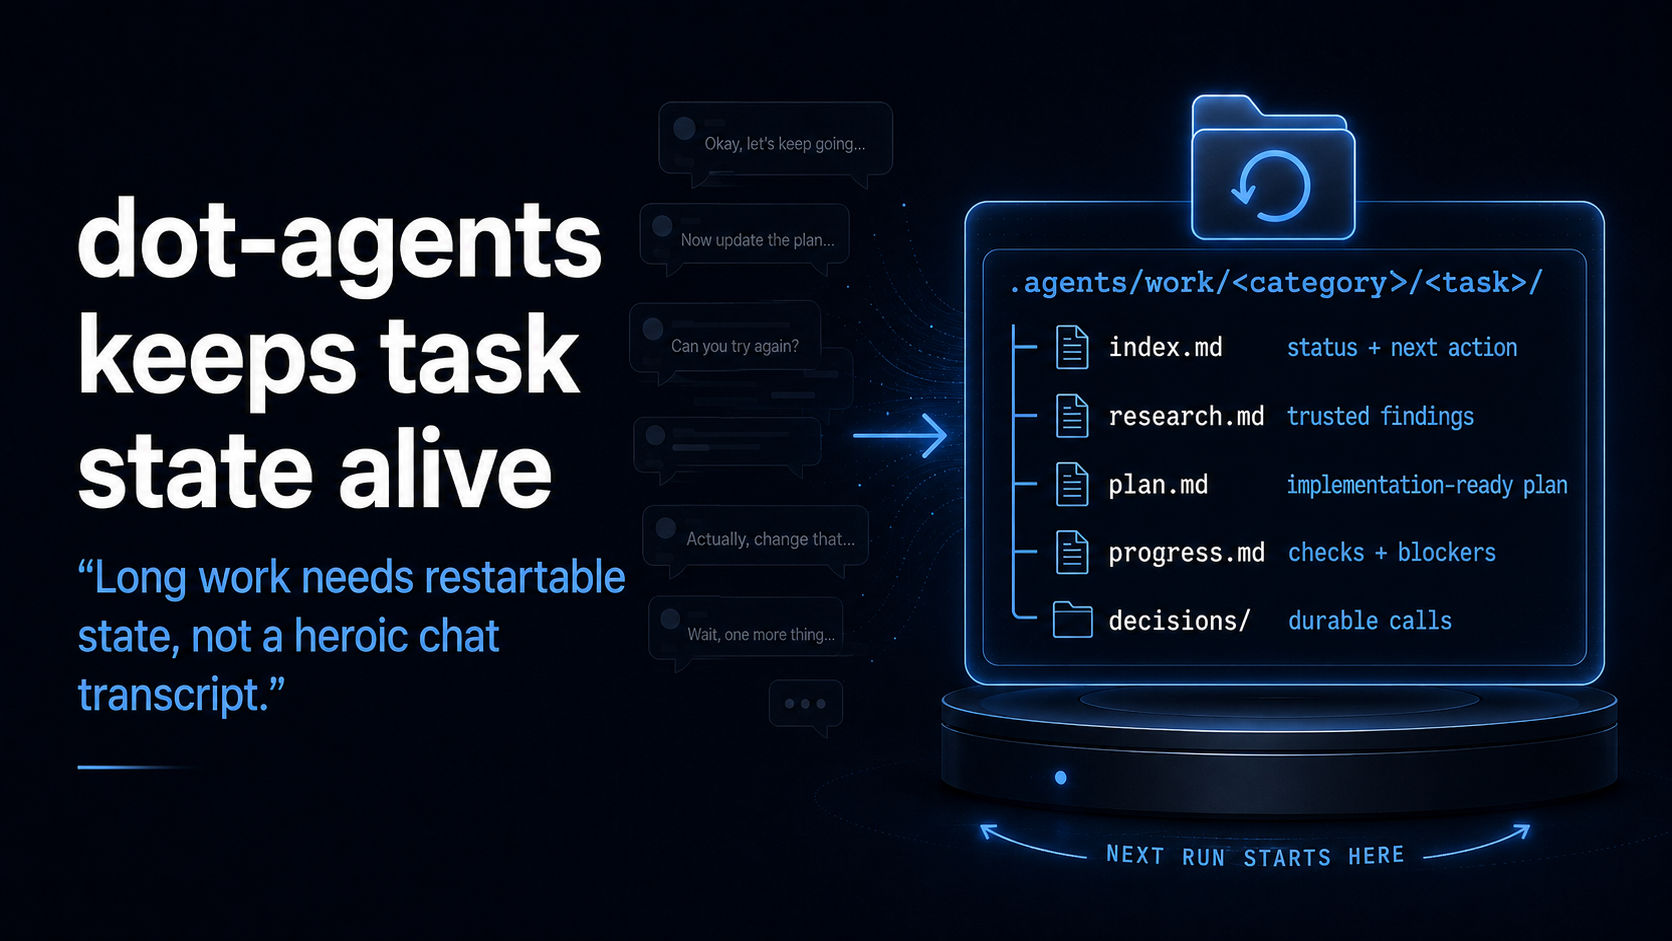
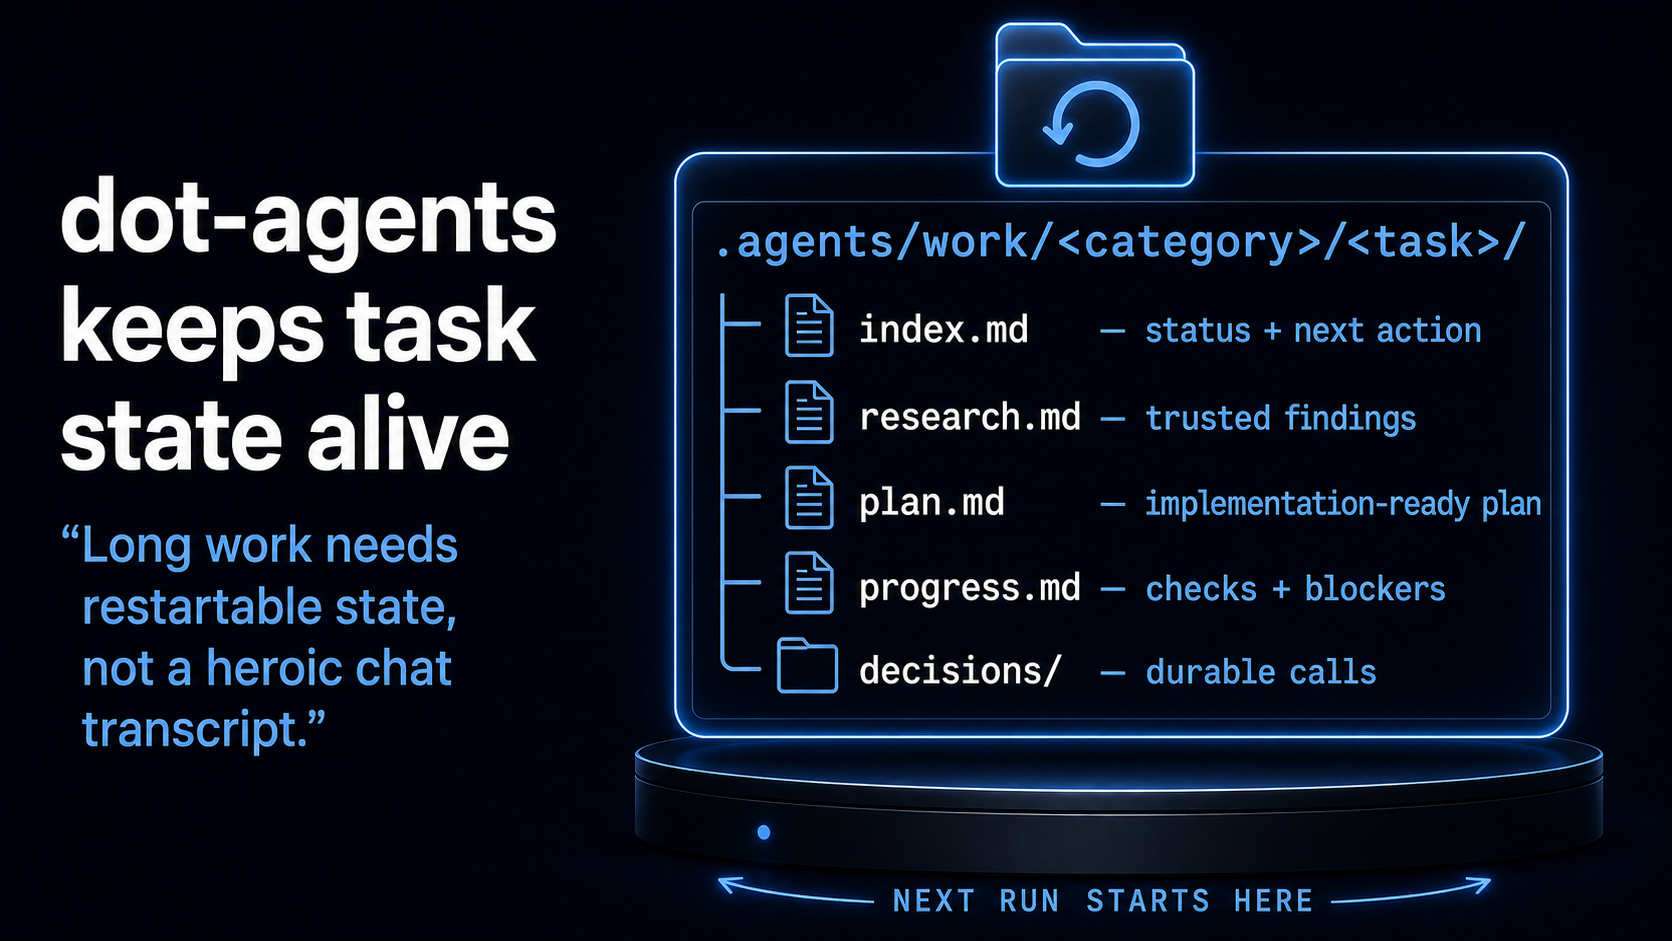
Improve durable context image deck
Amp-Thread-ID: https://ampcode.com/threads/T-019fd388-fd33-70bd-855a-7070fdd80cb4

Changed region(s): [[0.0311, 0.0, 0.9641, 0.9862], [0.4354, 0.8629, 0.4665, 0.8937]]

diff --git a/src/content/posts/durable-context-coding-agents-image-deck.md b/src/content/posts/durable-context-coding-agents-image-deck.md
@@ -1,6 +1,6 @@
 ---
 title: 'Your Repo Is the Memory: Durable Context for AI Coding Agents (Image Deck)'
-description: 'An image-only alternate deck for comparing generated presentation slides against the Markdown-native durable-context deck.'
+description: 'A visual presentation about keeping coding-agent intent, decisions, task state, and proof in the repository.'
 pubDate: 2026-07-02
 tags: ['AI Agents', 'Workflows', 'Agent Skills', 'dot-agents']
 draft: false
@@ -10,8 +10,8 @@ order: 4
 
 <!--
 Maintenance note for agents:
-durable-context-coding-agents-image-deck.md is an image-only experiment for the durable-context talk.
-It is not part of the canonical/extended-deck sync contract.
+durable-context-coding-agents-image-deck.md is the linked visual alternate for the canonical public article in durable-context-coding-agents.md.
+When the canonical argument changes, review this deck in the same diff and keep its claims, broad order, practical ending, notes, and source roles synchronized; its slide count and imagery may intentionally diverge.
 
 Slide images live in public/slides/durable-context-coding-agents-image-deck/.
 Do not publish, rename, delete, or replace the canonical public post without explicit human approval.
@@ -27,7 +27,9 @@ class: image-only
 
 <!-- notes -->
 
-Opening slide for the generated image-only deck.
+Coding agents can now produce substantial code faster than many teams can align around it. This talk asks where intent, constraints, decisions, and proof should live when chat is temporary and the repository is the system of record.
+
+The practical goal is to decide what to keep in the repo, what to leave in chat, and how to make the next run start smarter than the last one.
 
 ## Coding agents made implementation cheap
 <!-- slide:
@@ -39,23 +41,9 @@ class: image-only
 
 <!-- notes -->
 
-Use the new generated slide sequence in file order.
+The useful surprise is speed. A coding agent can inspect files, draft a plan, edit code, run commands, and summarize the result in minutes. The dangerous surprise is that alignment does not speed up automatically.
 
-## Start with the checkpoint you already trust
-<!-- slide:
-layout: image
-class: image-only
--->
-
-![Generated slide showing a timeline from intent to incident and asking how far the agent runs, what context survives, and where a human can redirect the work.](/slides/durable-context-coding-agents-image-deck/Slide-3.png)
-
-## Fast form without shared intent
-<!-- slide:
-layout: image
-class: image-only
--->
-
-![Generated slide saying generative AI makes form cheap, with documents and code artifacts spreading without shared intent.](/slides/durable-context-coding-agents-image-deck/Slide-4.png)
+Noperator's [You can just say it](https://noperator.dev/posts/you-can-just-say-it/) describes the failure mode as "substantial form without discernible intent": a capable generator can produce convincing code, tests, docs, and PRs from a vague instruction, leaving reviewers to reconstruct the goal.
 
 ## The PR inherits too many jobs
 <!-- slide:
@@ -65,6 +53,12 @@ class: image-only
 
 ![Generated slide comparing the old plan-discuss-build-review path with the agent path where alignment moves onto the critical path.](/slides/durable-context-coding-agents-image-deck/Slide-5.png)
 
+<!-- notes -->
+
+Maggie Appleton's [One Developer, Two Dozen Agents, Zero Alignment](https://maggieappleton.com/zero-alignment) describes the coordination shift: when implementation becomes cheap, "should we build it?" becomes harder than "how?"
+
+If the pull request is the first shared checkpoint, it must recover the goal, plan, assumptions, proof, and coordination that disappeared when implementation collapsed to minutes. Durable context moves those decisions earlier, while the work is still cheap to redirect.
+
 ## Speed becomes comprehension debt
 <!-- slide:
 layout: image
@@ -72,6 +66,26 @@ class: image-only
 -->
 
 ![Generated slide showing fast generation, large diffs, shallow review, and green tests turning speed into comprehension debt.](/slides/durable-context-coding-agents-image-deck/Slide-6.png)
+
+<!-- notes -->
+
+Addy Osmani calls the ownership posture [cognitive surrender](https://www.linkedin.com/posts/addyosmani_ai-programming-softwareengineering-activity-7457678048948064256-1pJl) and the accumulated gap [comprehension debt](https://addyosmani.com/blog/comprehension-debt/). Tests can be green while nobody can explain the implicit decisions or safely change the result.
+
+The team still owns generated code. Durable context keeps the goal, accepted tradeoffs, proof target, uncertainties, and human decisions attached to that code.
+
+## Start with the checkpoint you already trust
+<!-- slide:
+layout: image
+class: image-only
+-->
+
+![Generated slide showing an intent-to-incident timeline and three questions: how far the agent runs, what context survives, and where a human can redirect the work.](/slides/durable-context-coding-agents-image-deck/Slide-3.png)
+
+<!-- notes -->
+
+Before prescribing a workflow, locate the operating boundary. Autocomplete has a different risk profile from several terminal agents working against the same repo.
+
+Ask three questions: how far can the agent run without review, which shared context survives outside chat, and where can a human still change direction before rework becomes expensive? Durable context carries shared intent to a checkpoint where it can still change the work.
 
 ## The model is not your project memory
 <!-- slide:
@@ -81,13 +95,11 @@ class: image-only
 
 ![Generated slide contrasting broad lossy model memory with exact local repo truth.](/slides/durable-context-coding-agents-image-deck/Slide-7.png)
 
-## The repo is disk; chat is RAM
-<!-- slide:
-layout: image
-class: image-only
--->
+<!-- notes -->
 
-![Generated slide showing messy chat distilled into durable repo-local context that preserves the parts that change future behavior.](/slides/durable-context-coding-agents-image-deck/Slide-8.png)
+Simon Willison describes LLMs as [a lossy encyclopedia](https://simonwillison.net/2025/Aug/29/lossy-encyclopedia/): they carry broad public patterns, but the compression loses details. The model cannot infer this repo's fast test command, migration rule, security constraint, product decision, or preferred module boundary.
+
+For exact technical work, a correct repo-local example beats expecting the model to infer the rule. Chat can remain temporary when it points to current, reviewable files.
 
 ## What should survive?
 <!-- slide:
@@ -95,7 +107,13 @@ layout: image
 class: image-only
 -->
 
-![Generated slide showing messy chat exploration filtered into repo-local context that changes the next run.](/slides/durable-context-coding-agents-image-deck/Slide-9.png)
+![Generated slide filtering temporary chat into six durable items: intent, constraints, tradeoffs, decisions, proof, and next action.](/slides/durable-context-coding-agents-image-deck/Slide-9.png)
+
+<!-- notes -->
+
+Durable context is useful because it filters, not because it hoards. Preserve accepted constraints, proof commands, decisions, task state, examples worth copying, and mistakes that should become checks. Let false starts, temporary hypotheses, duplicate logs, and moment-specific explanations expire.
+
+Durable does not automatically mean current or authoritative. Name one current source of truth and say which source wins when instructions disagree. Never flush secrets, personal data, machine-specific paths, ephemeral URLs, or resource identifiers into repository memory.
 
 ## The repo-memory stack
 <!-- slide:
@@ -105,6 +123,12 @@ class: image-only
 
 ![Generated slide mapping durable repo memory into AGENTS.md, skills, work items, decisions, and evidence.](/slides/durable-context-coding-agents-image-deck/Slide-10.png)
 
+<!-- notes -->
+
+Each layer answers a different question. The map says where project truth starts. Procedures say how repeated work should happen. State says what is true for this task now. Evidence shows whether the work is done. Promotion turns one task's lesson into reusable guidance.
+
+Keeping those layers distinct prevents `AGENTS.md`, skills, and work items from becoming one large junk drawer.
+
 ## AGENTS.md is the map
 <!-- slide:
 layout: image
@@ -112,6 +136,12 @@ class: image-only
 -->
 
 ![Generated slide explaining AGENTS.md as the map for stack, directories, ownership boundaries, checks, and rules.](/slides/durable-context-coding-agents-image-deck/Slide-11.png)
+
+<!-- notes -->
+
+[`AGENTS.md`](https://agents.md/) is for instructions that apply before task-specific context exists: project shape, commands, coding conventions, dangerous paths, security rules, and links to deeper guidance.
+
+It should be short enough to read and specific enough to change behavior. Boris Cherny recommends periodically deleting guidance, observing current model behavior, and restoring only instructions justified by repeated failures ([00:03:21–00:08:54](https://www.youtube.com/watch?v=qyPCVqFUyDo&t=201s)). Durable does not mean permanent.
 
 ## Agent Skills are procedures
 <!-- slide:
@@ -121,21 +151,25 @@ class: image-only
 
 ![Generated slide defining a skill as trigger, steps, scripts or assets, and proof target.](/slides/durable-context-coding-agents-image-deck/Slide-12.png)
 
+<!-- notes -->
+
+[Agent Skills](https://agentskills.io/home) package repeatable workflows as folders with instructions and optional scripts, references, or assets. Use one when a workflow has a recognizable trigger, repeatable steps, supporting resources, and a clear proof target.
+
+A style preference belongs in `AGENTS.md`, a formatter, or a linter. A skill earns its place when it prevents a future run from rediscovering a procedure.
+
 ## dot-agents keeps task state alive
 <!-- slide:
 layout: image
 class: image-only
 -->
 
-![Generated slide showing a dot-agents work item with index, research, plan, progress, and decisions files.](/slides/durable-context-coding-agents-image-deck/Slide-13a.png)
+![Generated slide showing a readable dot-agents work item with index, research, plan, progress, and decisions files.](/slides/durable-context-coding-agents-image-deck/Slide-13a.png)
 
-## Keep task-local context close to the task
-<!-- slide:
-layout: image
-class: image-only
--->
+<!-- notes -->
 
-![Generated slide showing a work item surviving across sessions, preserving progress, decisions, and next action.](/slides/durable-context-coding-agents-image-deck/Slide-13b.png)
+`dot-agents` is a lightweight file convention for long-running agent work. It separates noisy exploration from the state that must survive: what we are doing, why, what we trust, what we decided, what remains, and how the next thread should continue.
+
+Research threads can go wide. Implementation threads should be narrow. The work item connects them without dragging every false start into the next run. Keep task-local context close to the task, then archive or remove it when the work is complete.
 
 ## Move review earlier than the PR
 <!-- slide:
@@ -145,37 +179,25 @@ class: image-only
 
 ![Generated slide showing review moving earlier through plan, trace, diff, and evidence before the merge request checkpoint.](/slides/durable-context-coding-agents-image-deck/Slide-14.png)
 
+<!-- notes -->
+
+The diff is necessary, but it is no longer enough. Plan review catches wrong work before it is generated. Trace review catches skipped files, broad edits, repeated failures, and ignored checks. Diff review checks the implementation. Evidence review asks whether the proof matches the risk.
+
+Authority should be explicit: permission to investigate does not imply permission to implement, and permission to implement does not imply permission to commit, push, merge, or release.
+
 ## Evidence keeps judgment attached to the diff
 <!-- slide:
 layout: image
 class: image-only
 -->
 
-![Generated slide showing proof levels from low-risk formatting checks through high-risk migration dry runs, rollback, and human signoff.](/slides/durable-context-coding-agents-image-deck/Slide-15.png)
+![Generated slide showing three readable proof tiers, from low-risk focused checks through high-risk dry runs, rollback, and human signoff.](/slides/durable-context-coding-agents-image-deck/Slide-15.png)
 
-## The control loop decides what survives
-<!-- slide:
-layout: image
-class: image-only
--->
+<!-- notes -->
 
-![Generated slide showing map, procedure, state, and evidence updates as the control loop for preserving useful context.](/slides/durable-context-coding-agents-image-deck/Slide-16.png)
+Evidence is durable context because "done" is otherwise too easy to say. The proof should scale with risk: focused checks for a small change, integration or visual evidence for medium risk, and dry runs, rollback plans, or signoff for high risk.
 
-## Durable context travels
-<!-- slide:
-layout: image
-class: image-only
--->
-
-![Generated slide showing repo-local context traveling across fresh threads, agents, engineers, teammates, and environments.](/slides/durable-context-coding-agents-image-deck/Slide-17.png)
-
-## The before and after is mundane
-<!-- slide:
-layout: image
-class: image-only
--->
-
-![Generated slide comparing reactive, low-context agent work with structured durable context that makes reviews start from intent and proof.](/slides/durable-context-coding-agents-image-deck/Slide-18.png)
+Committed does not mean verified. Record which checks were rerun for this change, which results were inherited, and what remains uncertain. Evidence does not replace judgment; it gives judgment something concrete to inspect.
 
 ## Promotion closes the loop
 <!-- slide:
@@ -185,10 +207,48 @@ class: image-only
 
 ![Generated slide showing task-local learning distilled from work items and evidence into reusable repo guidance, so the next task starts smarter.](/slides/durable-context-coding-agents-image-deck/Slide-19.png)
 
-## Thank you
+<!-- notes -->
+
+Promotion should leave the next run better, not merely larger. Preserve what changed future behavior, turn repeated mistakes into checks, and prune guidance that no longer earns its place.
+
+The useful loop is map, procedure, state, evidence, then promotion back into the smallest reusable artifact.
+
+## The before and after is mundane
 <!-- slide:
 layout: image
 class: image-only
 -->
 
-![Generated closing slide saying thank you and keep context close to the work, with AGENTS.md, skills, work items, and repo-local context flowing into a dot-agents folder between a human and robot feedback loop.](/slides/durable-context-coding-agents-image-deck/Slide-20.png)
+![Generated slide comparing rediscovery, surprise diffs, and buried decisions with known commands, explicit proof targets, and linked task state.](/slides/durable-context-coding-agents-image-deck/Slide-18.png)
+
+<!-- notes -->
+
+A chat transcript helps the person in that chat. Repo-local context lets a fresh thread continue the plan, a teammate inspect the same intent and proof, and local, cloud, and CI environments share commands and conventions.
+
+The agent does not become wise because a folder exists. It becomes easier to steer because the steering surface is visible and the next reviewer does not have to reconstruct the work from the final diff.
+
+## Start with one repeated pain
+<!-- slide:
+layout: image
+class: image-only
+-->
+
+![Closing slide mapping repeated pain to the smallest durable artifact and saying to start with one real task, record what helped, and repeat.](/slides/durable-context-coding-agents-image-deck/Slide-20.png)
+
+<!-- notes -->
+
+Do not design the perfect agent operating model. Start with one repeated pain: a missed command, repeated workflow, lost task state, recurring mistake, repeated ambiguity, or high-risk decision. Promote the smallest artifact that would make the next run better.
+
+Someone has to own the loop: notice what helped, promote it, delete stale guidance, and keep the next run better than the last.
+
+Start with one real task. Write down what made the agent better. Repeat. `dot-agents.dev` is one example of how to keep that context close to the work.
+
+## Sources used
+
+- Noperator, [You can just say it](https://noperator.dev/posts/you-can-just-say-it/) — source for the "substantial form without discernible intent" framing.
+- Maggie Appleton, [One Developer, Two Dozen Agents, Zero Alignment](https://maggieappleton.com/zero-alignment) — source for the alignment bottleneck and collaborative AI engineering framing.
+- Addy Osmani, [Cognitive Surrender in Software Engineering](https://www.linkedin.com/posts/addyosmani_ai-programming-softwareengineering-activity-7457678048948064256-1pJl) and [Comprehension Debt](https://addyosmani.com/blog/comprehension-debt/) — source for the surrender/debt framing and the gap between generated code and human understanding.
+- Simon Willison, [Lossy encyclopedia](https://simonwillison.net/2025/Aug/29/lossy-encyclopedia/) — source for the lossy-compression mental model and the advice to provide correct examples for exact technical work.
+- Boris Cherny, [We Cut 80% of Claude Code’s Prompt](https://www.youtube.com/watch?v=qyPCVqFUyDo) ([00:03:21–00:08:54](https://www.youtube.com/watch?v=qyPCVqFUyDo&t=201s)) — source for prompt ablation and restoring guidance only after repeated observed failures.
+- [`AGENTS.md`](https://agents.md/), [Agent Skills](https://agentskills.io/home), and [Codex Skills](https://developers.openai.com/codex/skills) — source material for map and procedure conventions.
+- [`dot-agents`](https://dot-agents.dev/), [Small Threads, Durable State](/posts/small-threads-durable-state), and [Make the Agent Prove It](/posts/make-the-agent-prove-it) — source material for file-backed task state, handoffs, and the evidence ladder.

diff --git a/src/content/posts/durable-context-coding-agents-extended-deck.md b/src/content/posts/durable-context-coding-agents-extended-deck.md
@@ -14,7 +14,7 @@ durable-context-coding-agents-extended-deck.md is the richer slide-first alterna
 
 The canonical post is reader-first and may merge adjacent framing sections for scanning. Its opening may absorb source framing that this extended deck presents after the checkpoint slide. This deck may retain separate source, diagram, and pacing slides. When either changes, review the other in the same diff and keep factual claims, source roles, links, terminology, caveats, and broad argument order synchronized; section count, heading granularity, visuals, and slide pacing may intentionally diverge.
 
-durable-context-coding-agents-image-deck.md is an image-only experiment and is not part of the canonical/extended-deck sync contract.
+durable-context-coding-agents-image-deck.md is the linked visual alternate. When the canonical argument changes, review the image deck in the same diff and keep its claims, broad order, practical ending, notes, and source roles synchronized; its slide count and imagery may intentionally diverge.
 Do not publish, rename, delete, or replace the canonical public post without explicit human approval.
 -->
 

diff --git a/src/content/posts/durable-context-coding-agents.md b/src/content/posts/durable-context-coding-agents.md
@@ -15,7 +15,7 @@ durable-context-coding-agents-extended-deck.md is the richer slide-first alterna
 
 The canonical post is reader-first and may merge adjacent framing sections for scanning. Its opening may absorb source framing that the extended deck presents after the checkpoint slide. The extended deck may retain separate source, diagram, and pacing slides. When either changes, review the other in the same diff and keep factual claims, source roles, links, terminology, caveats, and broad argument order synchronized; section count, heading granularity, visuals, and slide pacing may intentionally diverge.
 
-durable-context-coding-agents-image-deck.md is an image-only experiment and is not part of the canonical/extended-deck sync contract.
+durable-context-coding-agents-image-deck.md is the linked visual alternate. When the canonical argument changes, review the image deck in the same diff and keep its claims, broad order, practical ending, notes, and source roles synchronized; its slide count and imagery may intentionally diverge.
 Do not publish, rename, delete, or replace draft variants without explicit human approval.
 -->
 
